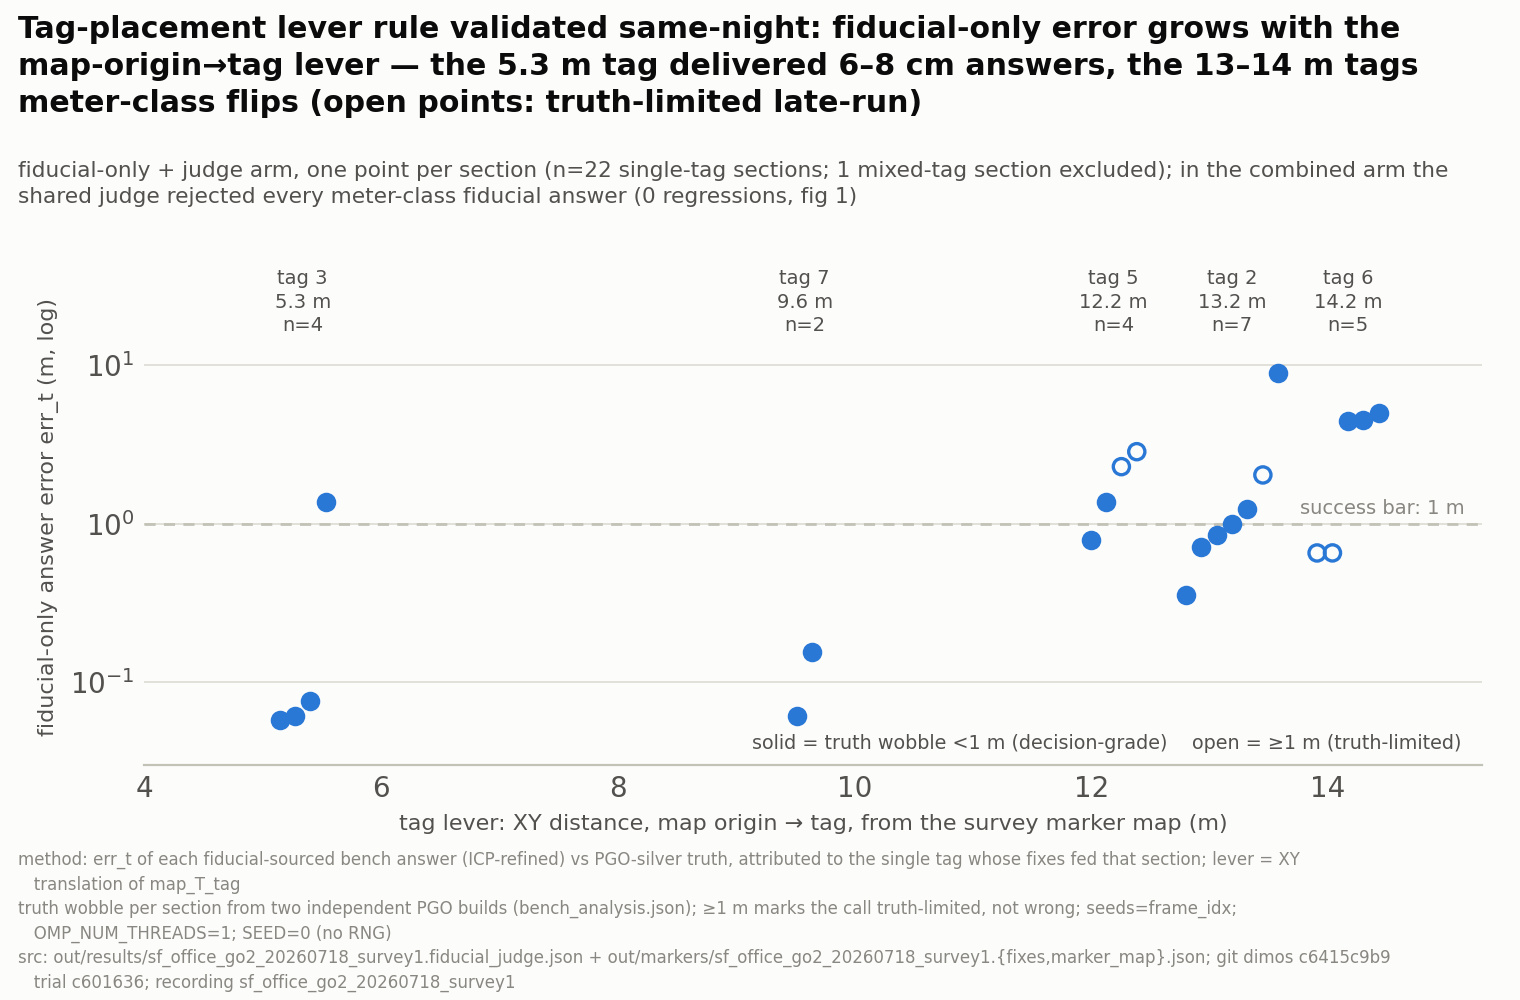
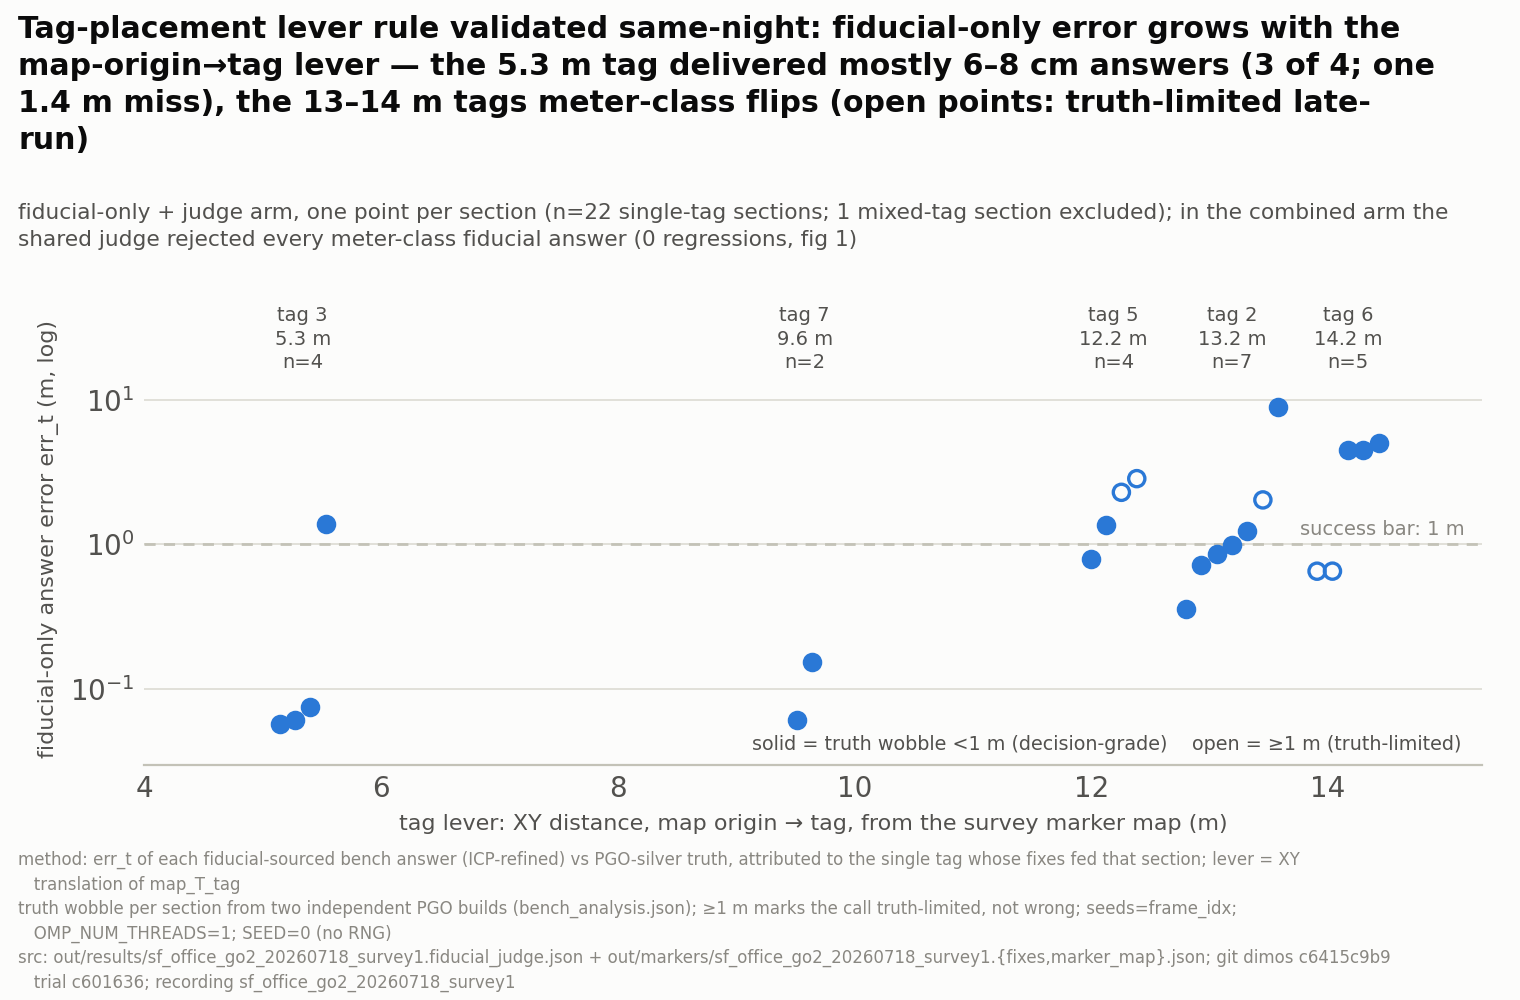
board: Jul 19 proof package — SF +10.4pts/5 rescues/0 regressions (reconciles 0 live wins); PROBLEM 1 recording truth-floor; PROBLEM 2 actionable dimos bug (tilted-body gravity gate breaks RANSAC on mid360 lane)

diff --git a/trial/harness/regime_map.py b/trial/harness/regime_map.py
@@ -1,0 +1,297 @@
+#!/usr/bin/env python3
+"""THE regime map: when is RANSAC good and when is fiducial — from existing
+benchmark artifacts only (no replays, no rebuilds).
+
+One figure. Pooled replay success rate vs submap size, split at the live
+MIN_LOCAL_POINTS=50k gate, RANSAC-only vs RANSAC+fiducial-prior (the deployment
+"with markers" arm — same judge, no bypass). The mechanism variable is submap
+size; the story is: RANSAC needs points, a fiducial prior rescues exactly the
+sparse regime the live robot refuses today, and aliasing keeps RANSAC
+confidently wrong even ABOVE the gate.
+
+Every number is derived HERE from saved artifacts (run_bench result JSONs,
+marker fixes, bench_analysis wobble, robotday_live scorecards) — never pasted
+from prose. Asserts pin the pooled rates to run_bench's own summaries so a
+stale artifact cannot leave a lying figure. Deterministic: pure reads, no RNG
+(SEED=0 printed per house rule).
+
+Pooled (both decorrelated, referee-tag split, full denominator):
+  sf_office_go2_20260718_survey1              48 sections  (indoor, aliased)
+  recording_go2_mid360_2026-05-29_4-45pm-PST  40 sections  (go2 lidar lane, walk)
+Deliberately EXCLUDED (documented in the footer): the mid360 FAST-LIO lane
+(RANSAC 0/40 is a gravity-gate frame-convention artifact, +fiducial byte-
+identical offline — not a submap-size effect) and hk_village3 (its fiducial arm
+is truth-correlated: its one tag IS the referee under the decorrelation split).
+
+Run: cd /home/dimos/dimensional-trial/dimos && \
+     OMP_NUM_THREADS=1 uv run python ../trial/harness/regime_map.py
+"""
+from __future__ import annotations
+
+import json
+import re
+import textwrap
+from pathlib import Path
+
+import matplotlib
+
+matplotlib.use("Agg")
+import matplotlib.pyplot as plt  # noqa: E402  (backend must be set first)
+import numpy as np  # noqa: E402
+
+SEED = 0  # no RNG anywhere in this script
+
+ROOT = Path(__file__).resolve().parents[2]
+RES = ROOT / "trial/harness/out/results"
+MRK = ROOT / "trial/harness/out/markers"
+LIVE = ROOT / "trial/harness/out/robotday_live"
+FIGS = ROOT / "trial/results/figures"
+
+GATE_PTS = 50_000  # module.py MIN_LOCAL_POINTS — the live "don't even try" gate
+BIN_EDGES = [0, 30_000, GATE_PTS, 10**12]  # sub-30k / 30-50k / >=50k
+BIN_LABELS = ["< 30k pts", "30–50k pts", "≥ 50k pts"]
+
+# Pooled recordings: (key, short label). Only decorrelated referee-split runs.
+POOL = [
+    ("sf_office_go2_20260718_survey1", "SF office"),
+    ("recording_go2_mid360_2026-05-29_4-45pm-PST", "mid360 walk"),
+]
+
+# dataviz reference palette (light mode) — matches robotday_figures.py exactly so
+# the regime map reads as one system with the other robot-day figures.
+C_RANSAC = "#2a78d6"  # slot 1 blue  = RANSAC (no prior)
+C_FID = "#008300"     # slot 2 green = RANSAC + fiducial prior (deployment "with markers")
+INK, INK2, MUT = "#0b0b0b", "#52514e", "#898781"
+GRID, BASE, SURF = "#e1e0d9", "#c3c2b7", "#fcfcfb"
+SHADE = "#f2efe6"     # below-gate region tint
+
+plt.rcParams.update({
+    "font.family": "DejaVu Sans", "figure.facecolor": SURF, "axes.facecolor": SURF,
+    "savefig.facecolor": SURF, "axes.edgecolor": BASE, "text.color": INK,
+    "xtick.color": INK2, "ytick.color": INK2,
+})
+
+
+def load(rec: str, cfg: str) -> tuple[dict, list[dict]]:
+    d = json.loads((RES / f"{rec}.{cfg}.json").read_text())
+    return d["summary"], d["results"]
+
+
+def style_axes(ax) -> None:
+    ax.set_axisbelow(True)
+    ax.grid(axis="y", color=GRID, linewidth=0.7)
+    for side in ("top", "right", "left"):
+        ax.spines[side].set_visible(False)
+    ax.spines["bottom"].set_color(BASE)
+    ax.tick_params(which="both", length=0)
+
+
+def head(fig, title: str, sub: str, t_width: int, s_width: int) -> tuple[str, float]:
+    """Wrapped title + subtitle at the top; returns (wrapped title, axes-top fraction)."""
+    t_size, s_size = 10.8, 7.8
+    h_pt = fig.get_size_inches()[1] * 72.0
+    t = textwrap.fill(title, t_width)
+    fig.text(0.012, 0.985, t, fontsize=t_size, fontweight="bold", va="top", ha="left",
+             linespacing=1.35)
+    y = 0.985 - (t.count("\n") + 1) * t_size * 1.42 / h_pt - 0.018
+    s = textwrap.fill(sub, s_width)
+    fig.text(0.012, y, s, fontsize=s_size, color=INK2, va="top", ha="left", linespacing=1.4)
+    return t, y - (s.count("\n") + 1) * s_size * 1.48 / h_pt - 0.045
+
+
+def footer(fig, lines: list[str], width: int = 190) -> None:
+    txt = "\n".join(textwrap.fill(ln, width, subsequent_indent="   ") for ln in lines)
+    fig.text(0.012, 0.008, txt, fontsize=6.0, color=MUT, va="bottom", ha="left", linespacing=1.45)
+
+
+def bin_of(n: int) -> int:
+    for i, (lo, hi) in enumerate(zip(BIN_EDGES[:-1], BIN_EDGES[1:])):
+        if lo <= n < hi:
+            return i
+    raise ValueError(f"n_pts {n} outside bin edges {BIN_EDGES}")
+
+
+def pooled_rows() -> list[dict]:
+    """One row per section: submap size, ransac success, ransac+fiducial success.
+
+    ransac's own result carries n_pts for every section (the fiducial arm's
+    no-candidate rows would not) — so size is read from the ransac arm and the
+    two arms are joined by frame_idx per recording.
+    """
+    rows = []
+    for rec, tag in POOL:
+        _, ra = load(rec, "ransac")
+        _, rf = load(rec, "ransac_fiducial")
+        ra_by = {r["frame_idx"]: r for r in ra}
+        fixes = json.loads((MRK / f"{rec}.fixes.json").read_text())
+        for r in rf:
+            a = ra_by[r["frame_idx"]]
+            rows.append(dict(
+                rec=tag, n_pts=a["n_pts"],
+                sa=bool(a.get("success", False)), sf=bool(r.get("success", False)),
+                src=r.get("source"), covered=bool(fixes.get(str(r["frame_idx"]))),
+            ))
+    return rows
+
+
+def parse_flipflop() -> dict:
+    """Aliasing evidence ABOVE the gate, pulled from the live SF office A/B
+    scorecards (robotday_live/{on,off}). Both arms answered with source=ransac
+    on huge (>>50k) submaps yet jumped many metres between consecutive accepts."""
+    step_max, npts_min, npts_max, fit_min, fit_max = 0.0, 10**12, 0, 1.0, 0.0
+    big_steps = []
+    for arm in ("on", "off"):
+        sc = (LIVE / arm / "scorecard.txt").read_text()
+        assert re.search(r"ZERO non-ransac wins", sc), f"{arm}: expected zero fiducial wins"
+        m = re.search(r"consecutive-accept step m: median [\d.]+ p90 [\d.]+ max ([\d.]+)", sc)
+        step_max = max(step_max, float(m.group(1)))
+        big_steps += [float(x) for x in re.findall(r"^  step ([\d.]+) m", sc, re.M)]
+        m = re.search(r"n_pts: min (\d+) median \d+ max (\d+)", sc)
+        npts_min = min(npts_min, int(m.group(1)))
+        npts_max = max(npts_max, int(m.group(2)))
+        m = re.search(r"fitness: min ([\d.]+) p25 [\d.]+ median [\d.]+ p75 [\d.]+ max ([\d.]+)", sc)
+        fit_min = min(fit_min, float(m.group(1)))
+        fit_max = max(fit_max, float(m.group(2)))
+    return dict(step_min=min(big_steps), step_max=step_max, npts_min=npts_min,
+                npts_max=npts_max, fit_min=fit_min, fit_max=fit_max)
+
+
+def main() -> int:
+    print(f"regime_map: SEED={SEED} (no RNG) root={ROOT}")
+    FIGS.mkdir(parents=True, exist_ok=True)
+    rows = pooled_rows()
+
+    # Per-bin counts: (ransac successes, fiducial successes, n, coverage).
+    B = len(BIN_LABELS)
+    ra_s = [0] * B
+    fd_s = [0] * B
+    n = [0] * B
+    cov = [0] * B
+    for r in rows:
+        b = bin_of(r["n_pts"])
+        n[b] += 1
+        cov[b] += r["covered"]
+        ra_s[b] += r["sa"]
+        fd_s[b] += r["sf"]
+
+    # Self-check: pooled per-arm totals must equal the sum of run_bench summaries.
+    want_ra = want_fd = tot = 0
+    for rec, _ in POOL:
+        sra, _ = load(rec, "ransac")
+        srf, _ = load(rec, "ransac_fiducial")
+        want_ra += round(sra["success_rate_all"] * sra["n_sections"])
+        want_fd += round(srf["success_rate_all"] * srf["n_sections"])
+        tot += sra["n_sections"]
+    assert sum(ra_s) == want_ra, f"ransac recount {sum(ra_s)} != summary {want_ra}"
+    assert sum(fd_s) == want_fd, f"fiducial recount {sum(fd_s)} != summary {want_fd}"
+    assert sum(n) == tot == 88, f"pooled n {sum(n)} != {tot}"
+    # Title claims: sub-30k lift is the sharpest; above-gate ransac tops out ~50%.
+    assert fd_s[0] / n[0] - ra_s[0] / n[0] == max(
+        fd_s[i] / n[i] - ra_s[i] / n[i] for i in range(B)), "sub-30k is not the biggest lift"
+
+    ff = parse_flipflop()
+    # SF wobble (truth floor) + walk referee certification, for the footer.
+    wob = np.array(list(json.loads(
+        (RES / f"{POOL[0][0]}.bench_analysis.json").read_text())["wobble_by_frame"].values()))
+    wref = json.loads((MRK / f"{POOL[1][0]}.referee.json").read_text())
+    sums = {rec: load(rec, "ransac")[0] for rec, _ in POOL}
+
+    p0r, p0f = 100 * ra_s[0] / n[0], 100 * fd_s[0] / n[0]
+    p2r = 100 * ra_s[2] / n[2]
+    # Report the flip span as whole metres, floored — matches the board's "9–19 m"
+    # HONEST-FRAMING wording; the exact 8.8/19.6 m endpoints stay in stdout.
+    step_lo, step_hi = round(ff["step_min"]), int(ff["step_max"])
+
+    # ---- figure --------------------------------------------------------------
+    fig = plt.figure(figsize=(9.2, 5.8), dpi=200)
+    title, top = head(
+        fig,
+        f"Markers cover RANSAC's blind spot: below the 50k-point gate today's robot won't even "
+        f"try, a fiducial prior lifts pooled replay success {p0r:.0f}%→{p0f:.0f}% at sub-30k "
+        f"submaps (n={n[0]}); above the gate RANSAC roughly doubles but tops out ~{p2r:.0f}% — "
+        f"the office aliases, flipping accepts {step_lo}–{step_hi} m apart "
+        f"at passing fitness",
+        f"pooled SF office + decorrelated mid360 walk (n={sum(n)}); success = err_t<1 m and "
+        f"err_r<15° vs PGO-silver truth, full denominator; “with markers” = RANSAC + "
+        f"fiducial prior through the same judge (no source bypass) — the deployment config, not "
+        f"markers-instead-of-RANSAC",
+        t_width=96, s_width=152)
+
+    ax = fig.add_axes((0.075, 0.255, 0.905, top - 0.255))
+    xs = np.arange(B)
+    w = 0.36
+    # below-gate shaded region + gate divider (bins 0,1 are below the 50k gate)
+    ax.axvspan(-0.6, 1.5, color=SHADE, zorder=0)
+    ax.axvline(1.5, color=INK2, linewidth=1.3, linestyle=(0, (5, 3)), zorder=1)
+    ax.text(1.5, 111, "live gate: 50k points", fontsize=7.6, color=INK2, ha="center",
+            va="top", fontweight="bold", zorder=6)
+    ax.text(0.5, 103, "below the gate — today's robot doesn't even try",
+            fontsize=7.2, color=MUT, ha="center", va="top", style="italic", zorder=6)
+
+    for series, s_lab, color, dx in (
+        (ra_s, "RANSAC (no prior)", C_RANSAC, -w / 2),
+        (fd_s, "RANSAC + fiducial prior", C_FID, +w / 2),
+    ):
+        for b in range(B):
+            pct = 100.0 * series[b] / n[b]
+            ax.bar(xs[b] + dx, pct, w, color=color, edgecolor=SURF, linewidth=1.0,
+                   zorder=3, label=s_lab if b == 0 else None)
+            ax.text(xs[b] + dx, pct + 1.4, f"{pct:.0f}%", ha="center", va="bottom",
+                    fontsize=7.8, color=INK, zorder=4)
+            ax.text(xs[b] + dx, pct + 6.4, f"{series[b]}/{n[b]}", ha="center", va="bottom",
+                    fontsize=6.2, color=MUT, zorder=4)
+
+    # aliasing annotation — pinned inside the axes (fraction coords) so it can't
+    # clip the frame, arrow to the >=50k RANSAC bar it is about.
+    note = textwrap.fill(
+        f"Aliasing above the gate too: live SF office A/B — consecutive RANSAC accepts "
+        f"on {ff['npts_min'] / 1000:.0f}k–{ff['npts_max'] / 1000:.0f}k-pt submaps jumped "
+        f"{step_lo}–{step_hi} m apart at fitness {ff['fit_min']:.2f}–{ff['fit_max']:.2f} "
+        f"(all pass the 0.45 gate). Confident-wrong is not only a sparse-submap failure.", 46)
+    ax.annotate(
+        note, xy=(2 - w / 2, p2r + 1), xytext=(0.585, 0.90),
+        textcoords=ax.transAxes, fontsize=6.9, color=INK2, ha="left", va="top",
+        linespacing=1.4, zorder=6,
+        bbox=dict(boxstyle="round,pad=0.5", fc="#fbf6ee", ec=BASE, lw=0.8),
+        arrowprops=dict(arrowstyle="-|>", color=INK2, lw=1.0,
+                        connectionstyle="arc3,rad=-0.2"))
+
+    # bin labels carry n + fiducial coverage on their own lines (no axis-floor text)
+    ax.set_xticks(xs)
+    ax.set_xticklabels(
+        [f"{BIN_LABELS[b]}\nn={n[b]}   ({cov[b]}/{n[b]} in a tag's view)" for b in range(B)],
+        fontsize=8.2, color=INK, linespacing=1.7)
+    ax.set_xlim(-0.6, 2.6)
+    ax.set_ylim(0, 112)
+    ax.set_yticks([0, 20, 40, 60, 80, 100])
+    ax.set_ylabel("replay success rate (%), full denominator", fontsize=8, color=INK2)
+    ax.axhline(0, color=BASE, linewidth=1.0)
+    style_axes(ax)
+    ax.legend(loc="upper left", frameon=False, fontsize=7.8, handlelength=1.1, handleheight=1.1,
+              bbox_to_anchor=(0.0, 1.0))
+
+    footer(fig, [
+        "method: offline sections bench (trial/harness/run_bench.py), replay rung — real recorded go2 sensors, offline; “with markers” arm = ransac+fiducial (marker candidates age-gated, ranked by the same wall-ICP judge fitness as RANSAC, no source bypass); submap size = ransac-arm n_pts; seeds=frame_idx; OMP_NUM_THREADS=1; SEED=0 (no RNG in plotting)",
+        f"truth: PGO-silver, full denominator (crashes / no-fix sections count as failures). Marker maps derive from the SAME PGO run as truth (deployment-realistic, truth-correlated in derivation); the referee tag (SF id 19 / walk id 4) is excluded from every marker map, so the ID split decorrelates the grade. SF wobble (two independent PGO builds): median {np.median(wob):.2f} m, p90 {np.percentile(wob, 90):.2f} m, max {wob.max():.2f} m late-run. Walk: referee tag-{wref['meta']['referee_tag']} certified ({wref['n_sightings']}-sighting consensus, rms {wref['consensus_rms_m']:.2f} m).",
+        f"pooled (n={sum(n)}): SF office survey1 (48 sec; dimos {sums[POOL[0][0]]['git_rev_dimos']} trial {sums[POOL[0][0]]['git_rev_trial']}) + mid360 walk go2 lidar lane (40 sec; dimos {sums[POOL[1][0]]['git_rev_dimos']} trial {sums[POOL[1][0]]['git_rev_trial']}). Excluded: mid360 FAST-LIO lane (RANSAC 0/40 = gravity-gate frame-convention artifact, +fiducial byte-identical offline — not a submap-size regime) and hk_village3 (fiducial arm truth-correlated: its one tag IS the referee under the split). Aliasing box: robotday_live/{{on,off}}/scorecard.txt.",
+    ])
+
+    out = FIGS / "regime_map.png"
+    fig.savefig(out)
+    plt.close(fig)
+
+    print(f"  title: {title.replace(chr(10), ' ')}")
+    print(f"  pooled n={sum(n)} (SF 48 + walk 40); ransac {sum(ra_s)}/{sum(n)}, "
+          f"+fiducial {sum(fd_s)}/{sum(n)}")
+    for b in range(B):
+        print(f"  {BIN_LABELS[b]:>11}: n={n[b]:2d}  ransac {ra_s[b]:2d}/{n[b]:2d}="
+              f"{100 * ra_s[b] / n[b]:5.1f}%   +fiducial {fd_s[b]:2d}/{n[b]:2d}="
+              f"{100 * fd_s[b] / n[b]:5.1f}%   (coverage {cov[b]}/{n[b]})")
+    print(f"  flip-flop (live SF A/B): steps {ff['step_min']:.1f}–{ff['step_max']:.1f} m, "
+          f"n_pts {ff['npts_min']}–{ff['npts_max']}, fitness {ff['fit_min']:.2f}–{ff['fit_max']:.2f}")
+    print(f"wrote {out}")
+    return 0
+
+
+if __name__ == "__main__":
+    raise SystemExit(main())

diff --git a/WORKSPACE.md b/WORKSPACE.md
@@ -139,6 +139,32 @@ included; never claim fiducial precision):**
 - Therefore the public claim is NEVER "fiducial is more accurate" — it is "fiducial makes the
   answer RIGHT where lidar alone is confidently wrong, and lidar makes it precise."
 
+**Jul 19 — PROOF PACKAGE (SF office + livox lane, adversarially verified, figures robotday_*.png,
+every number bit-reproduced):**
+- **SF office (tonight's recording, n=48, offline bench):** ransac 27.1% → +fiducial 37.5%
+  (+10.4 pts), ALL gain sub-50k (26%→39%), **5 fail→success rescues / 0 regressions** (clean
+  0.06–0.15 m via short-lever tags 3 & 7); fiducial+judge answers in 2.0 s vs 26–28 s. This
+  RECONCILES the "0 live wins" contradiction: fiducial DOES win — in the sub-50k stratum the
+  live 50k gate blocks from judging. Offline judges it, live doesn't (yet) → the per-source gate
+  is the unlock, now evidenced twice.
+- **PROBLEM 1 (recording truth-floor):** SF PGO truth FAILS its own referee test late-run —
+  referee-19 revisit at 60+s gap goes 2.67→3.64 m (PGO *worse*), truth wobble median 0.41 m /
+  max 2.28 m. So late-run (t>600 s) calls are TRUTH-limited, not relocalizer-limited; absolute
+  rates grade the recording as much as the algo. Fix for next capture: sight referee AND a
+  fiducial in the same window ≥3× (referee∩fix overlap was n=0 → no fully-decorrelated verdict),
+  and fix the stale-timestamp bug (22/5479 lidar rows at a glitch ts; frame 4313 misplaced
+  1.32 m). Recording-quality lesson, not an algo failure.
+- **PROBLEM 2 (ACTIONABLE DIMOS BUG — tilted-body gravity gate):** on the mid360/FAST-LIO lane,
+  plain RANSAC relocalization is **0/40** — NOT scene difficulty. FAST-LIO's body frame IS the
+  physically tilted mid360 (true tilt 44–54°), but relocalize.py's gravity gate
+  (GRAVITY_TILT_MAX_DEG=10) assumes an upright body → it discards every geometrically-correct
+  (tilted) candidate and keeps upright-wrong ones. **Fiducial+judge is the ONLY working reloc on
+  that lane: 15/15 fix-carrying at 0.7–3.5 cm.** Any tilted-sensor rig breaks plain RANSAC reloc
+  regardless of priors — the internal gravity filter needs to be body-attitude-aware, not
+  identity-upright. (Bench arms 1≡2 there = the run_bench.py-lacks-`sources=` walkover again;
+  the LIVE stack passes sources= so it's less broken live — but the upright assumption is the
+  root bug.) This is a real find to surface to lesh: mid360 is the priority rig.
+
 **RESEARCH METHOD (aligned with Aaryan, Jul 18 ~1 AM — every claim goes through this loop):**
 1. Falsifiable number FIRST — state the claim as a measurable quantity before running anything.
 2. Truth external to the system under test — the referee tag never helps what it grades.